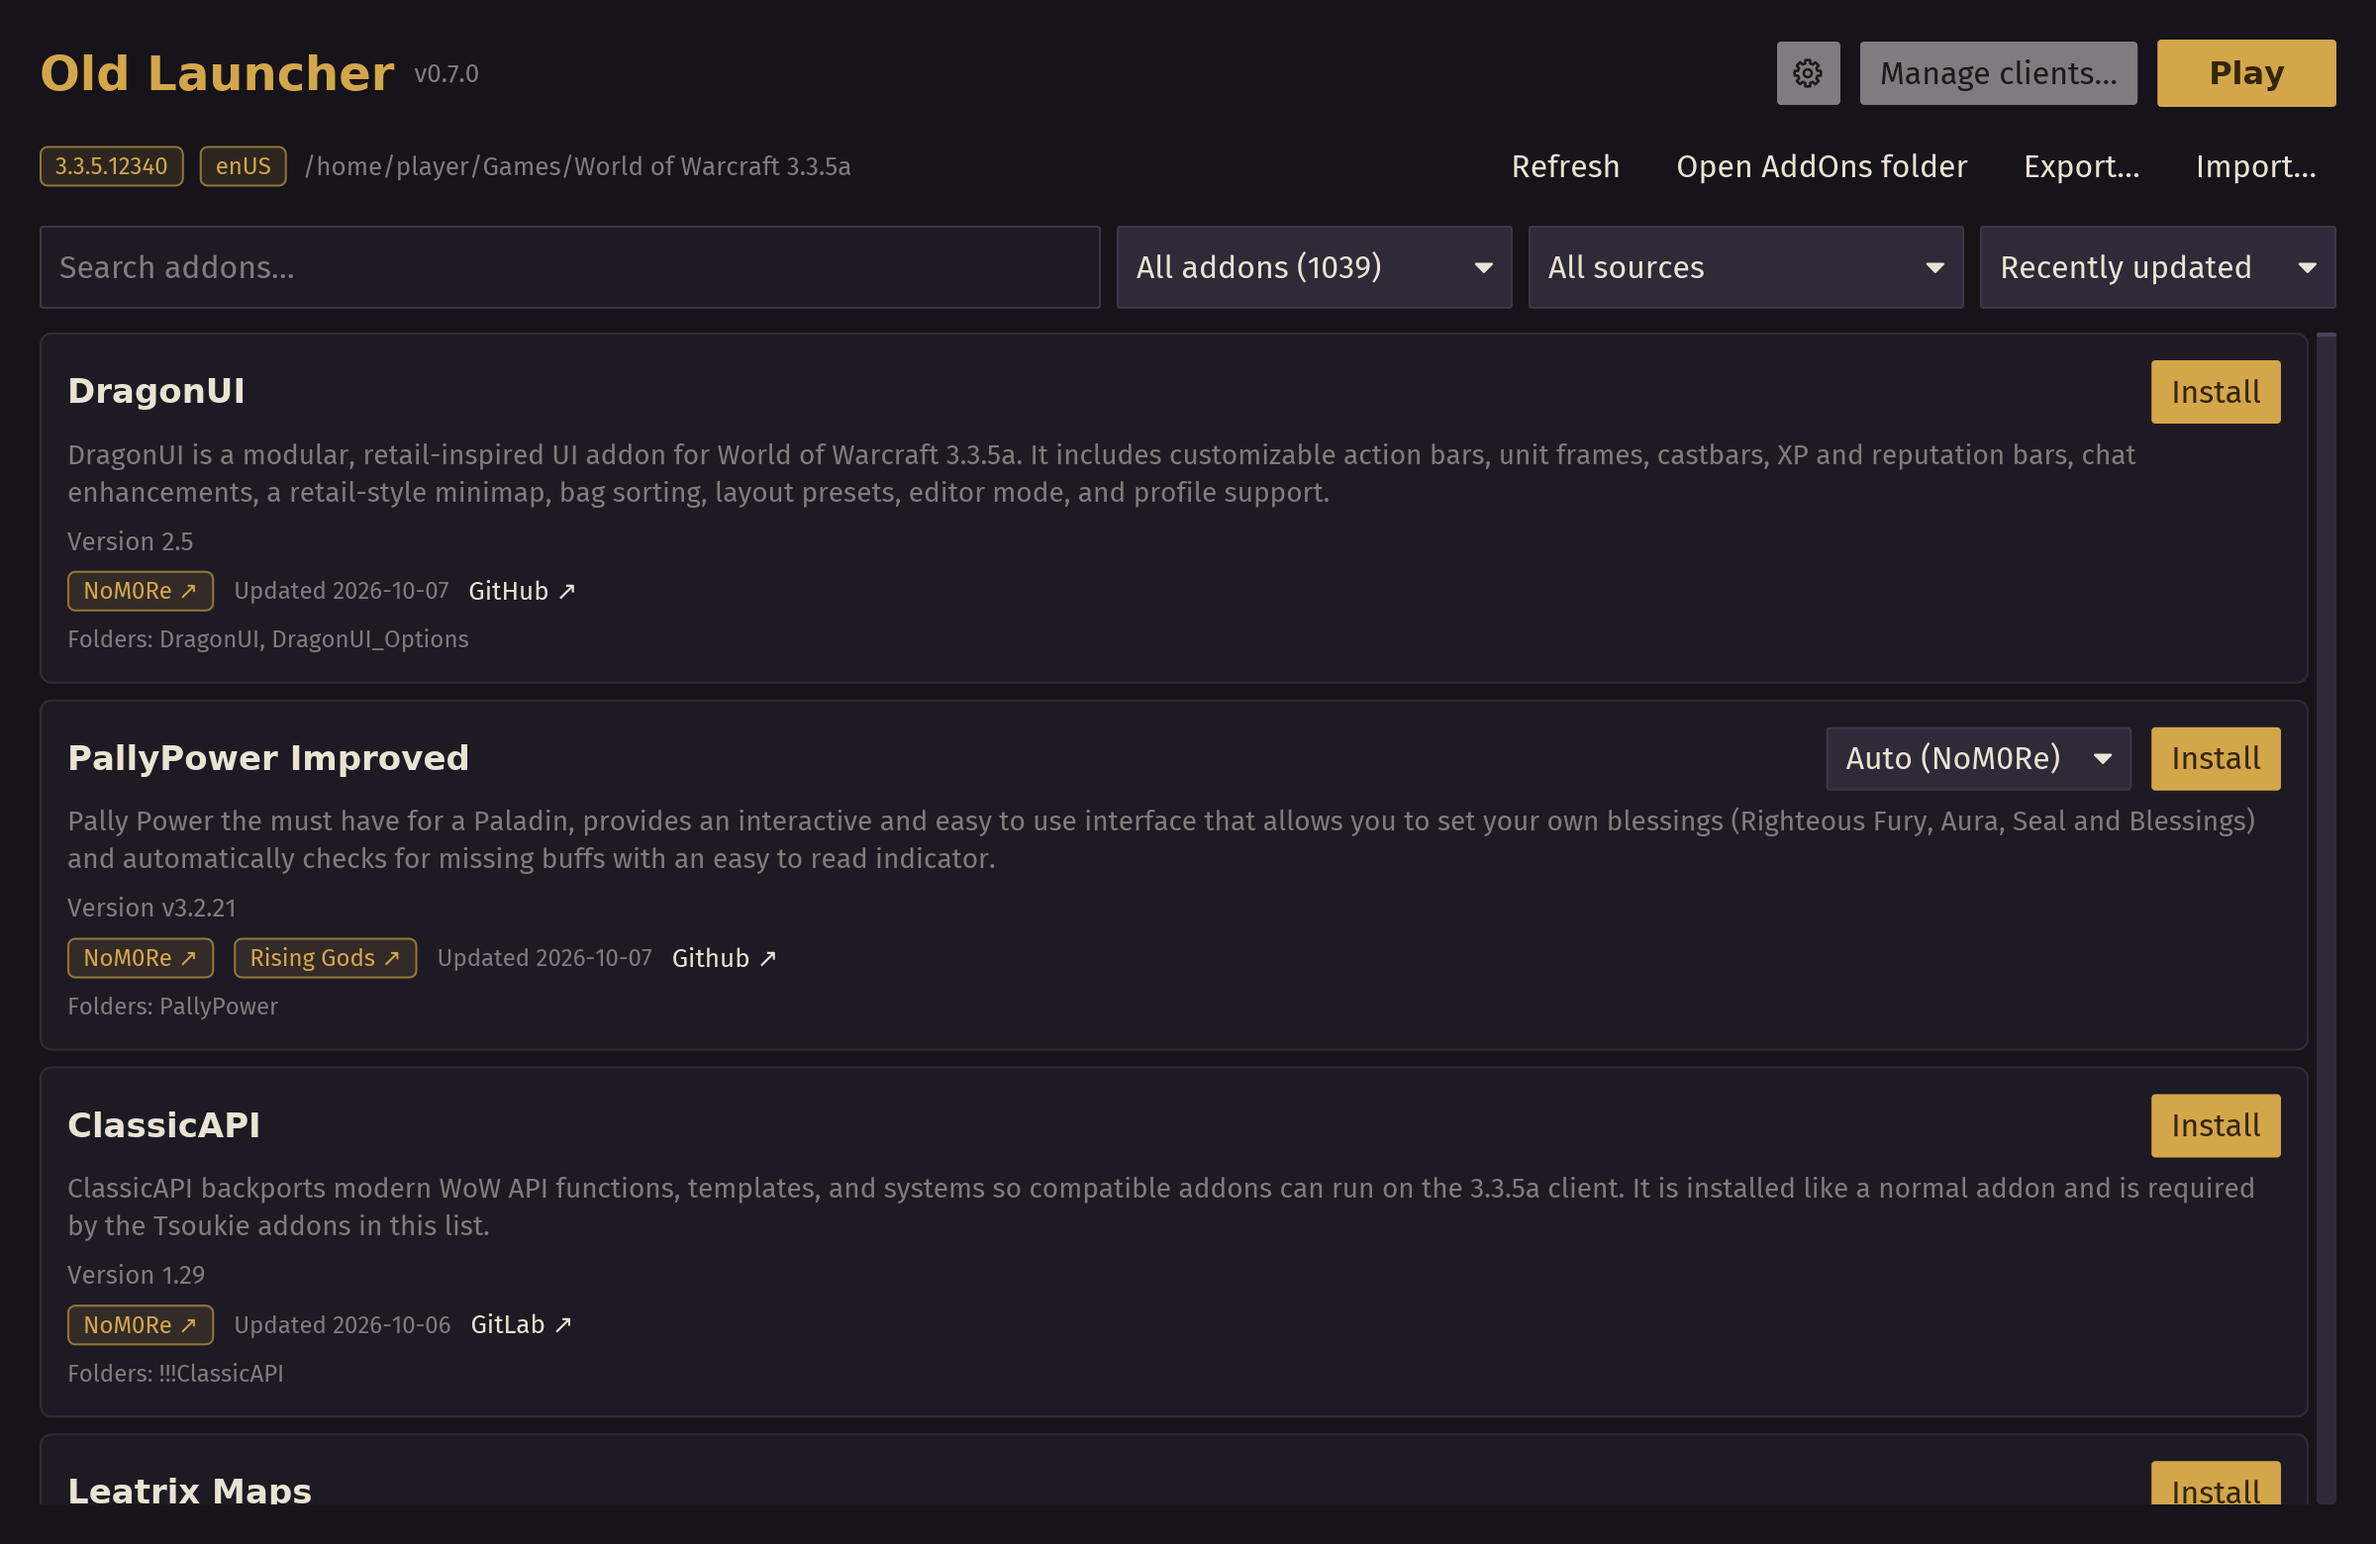
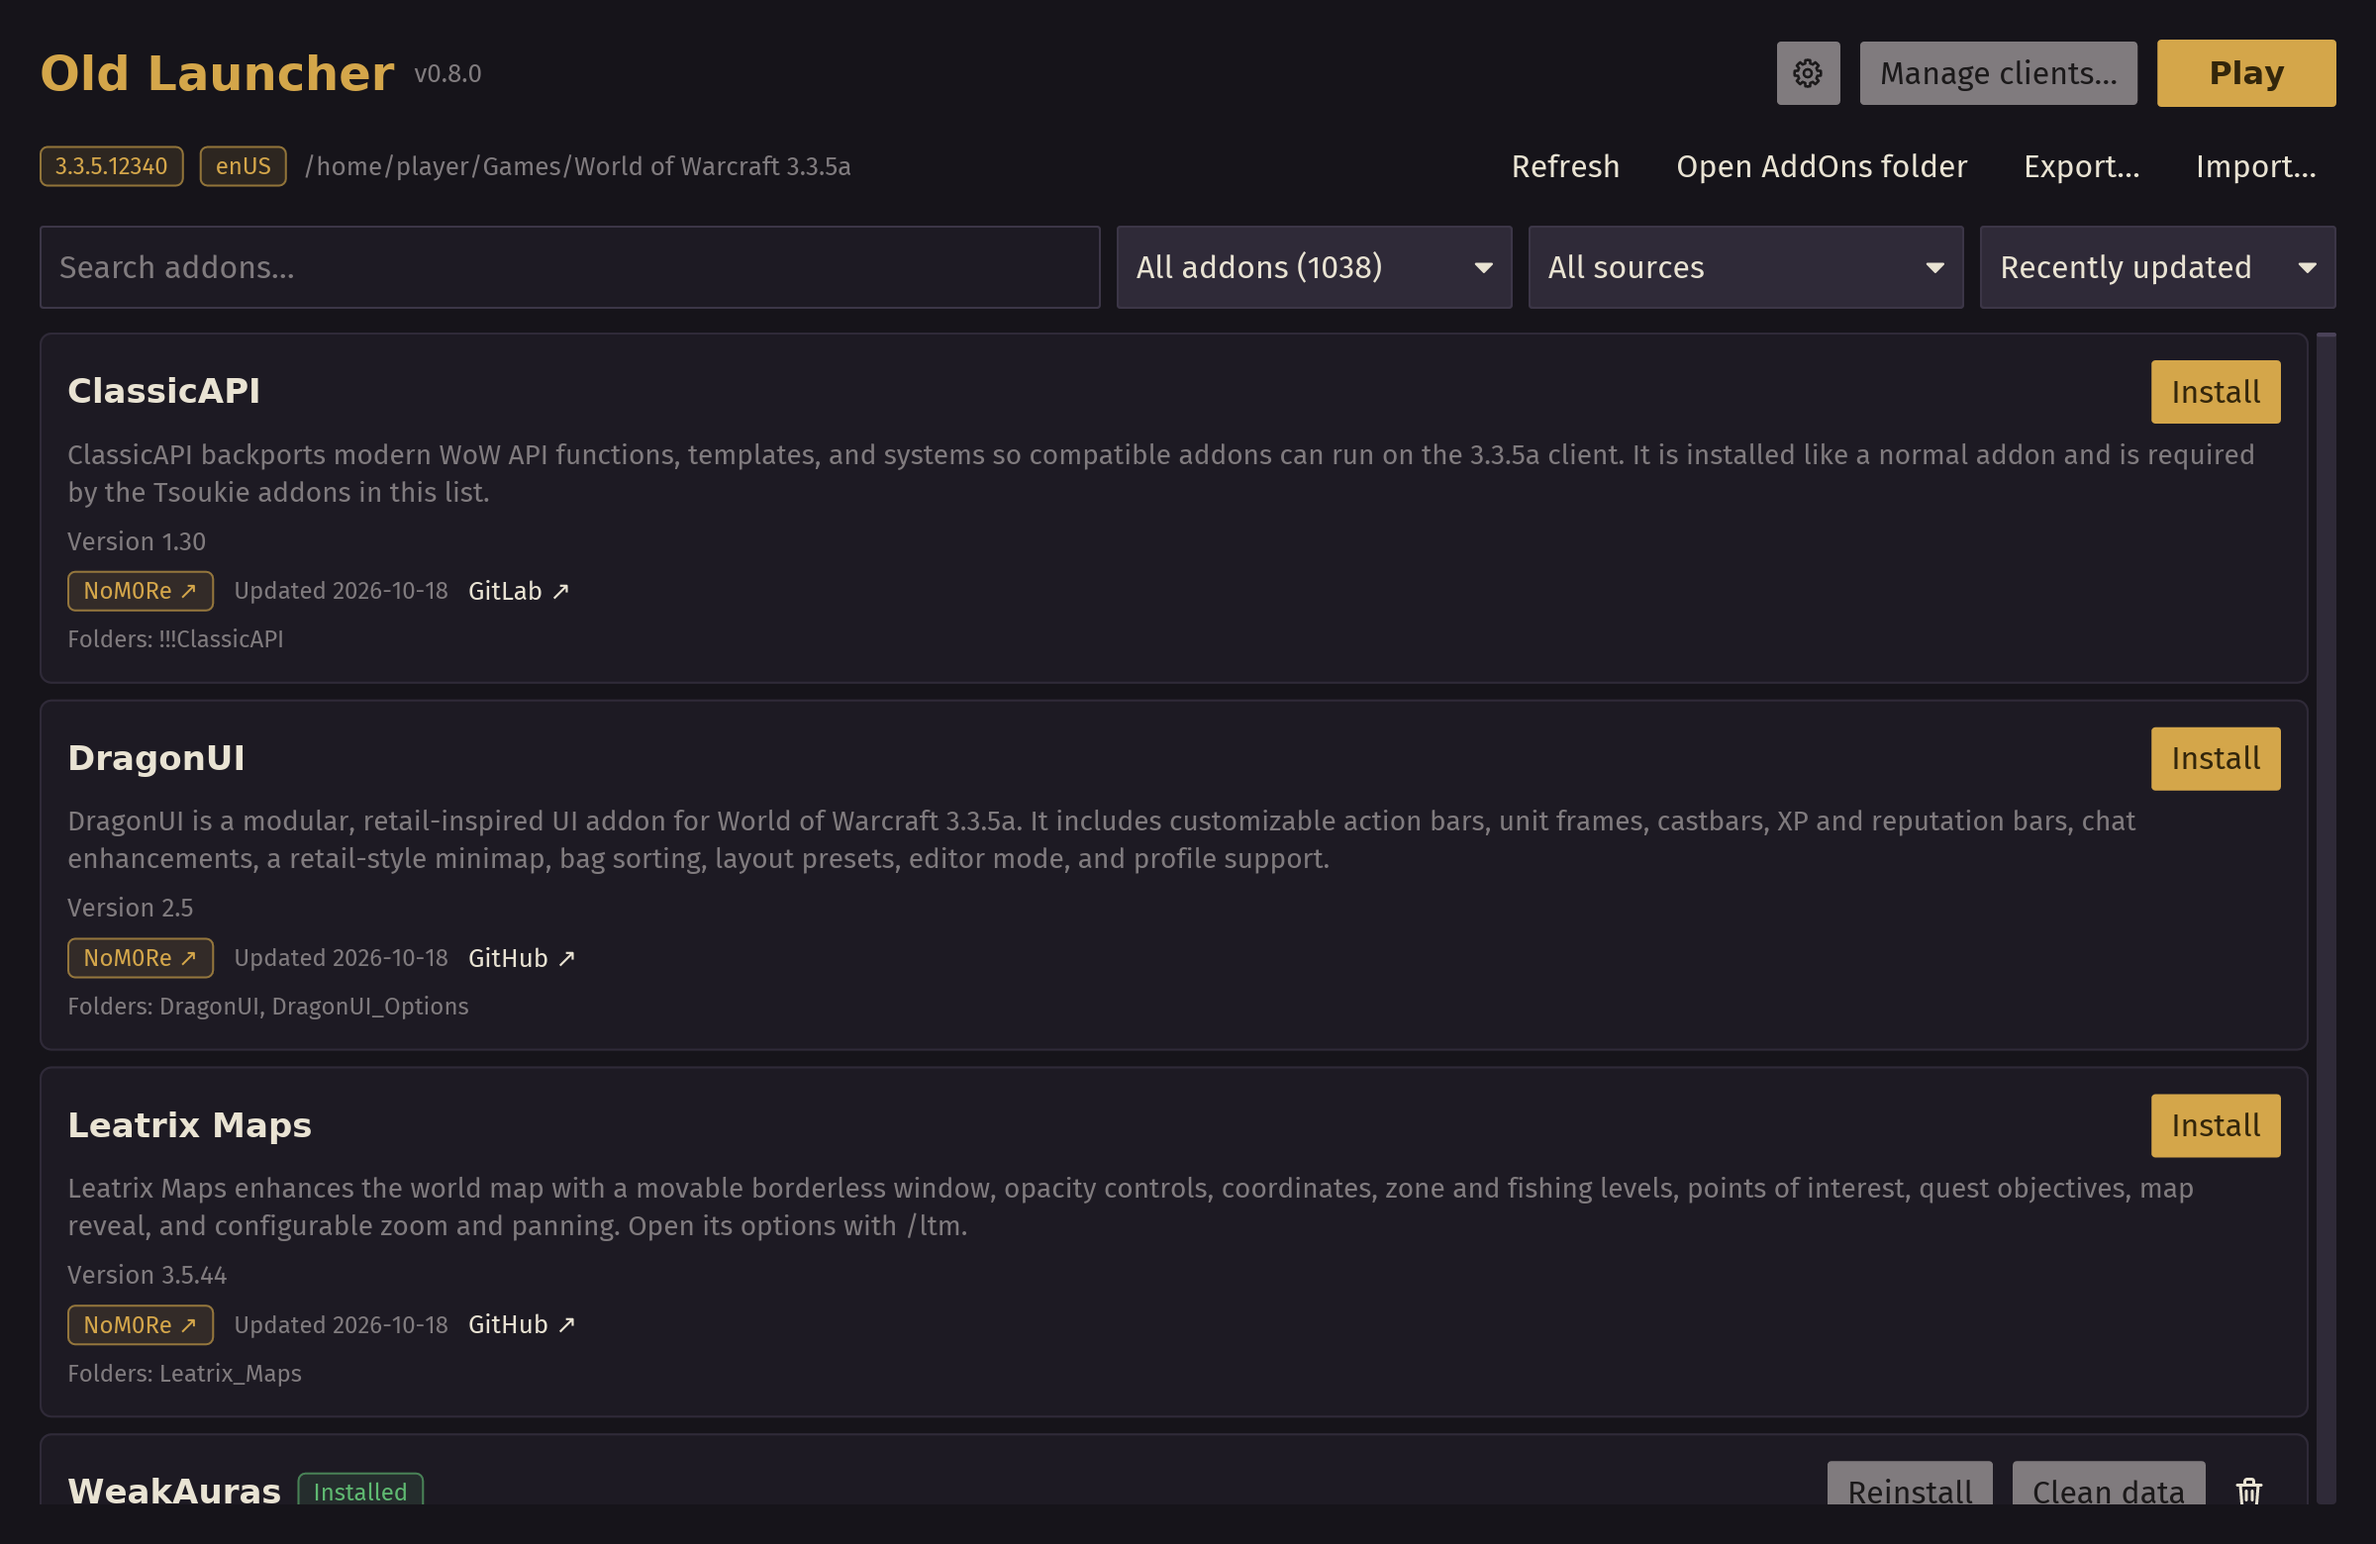
Bump the version to 0.8.0
The screenshots are rendered again: they show 0.8.0, and the list as the
catalog has it now. NoM0Re's WeakAuras is listed as WeakAuras rather
than WeakAuras-WotLK, so the demo client installs it by that name.

diff --git a/src/screenshots.rs b/src/screenshots.rs
@@ -82,7 +82,7 @@ fn screenshots() {
         "Bartender4",
         "Details",
         "Questie",
-        "WeakAuras-WotLK",
+        "WeakAuras",
         "Omen Thread Meter",
         "Prat",
     ] {
